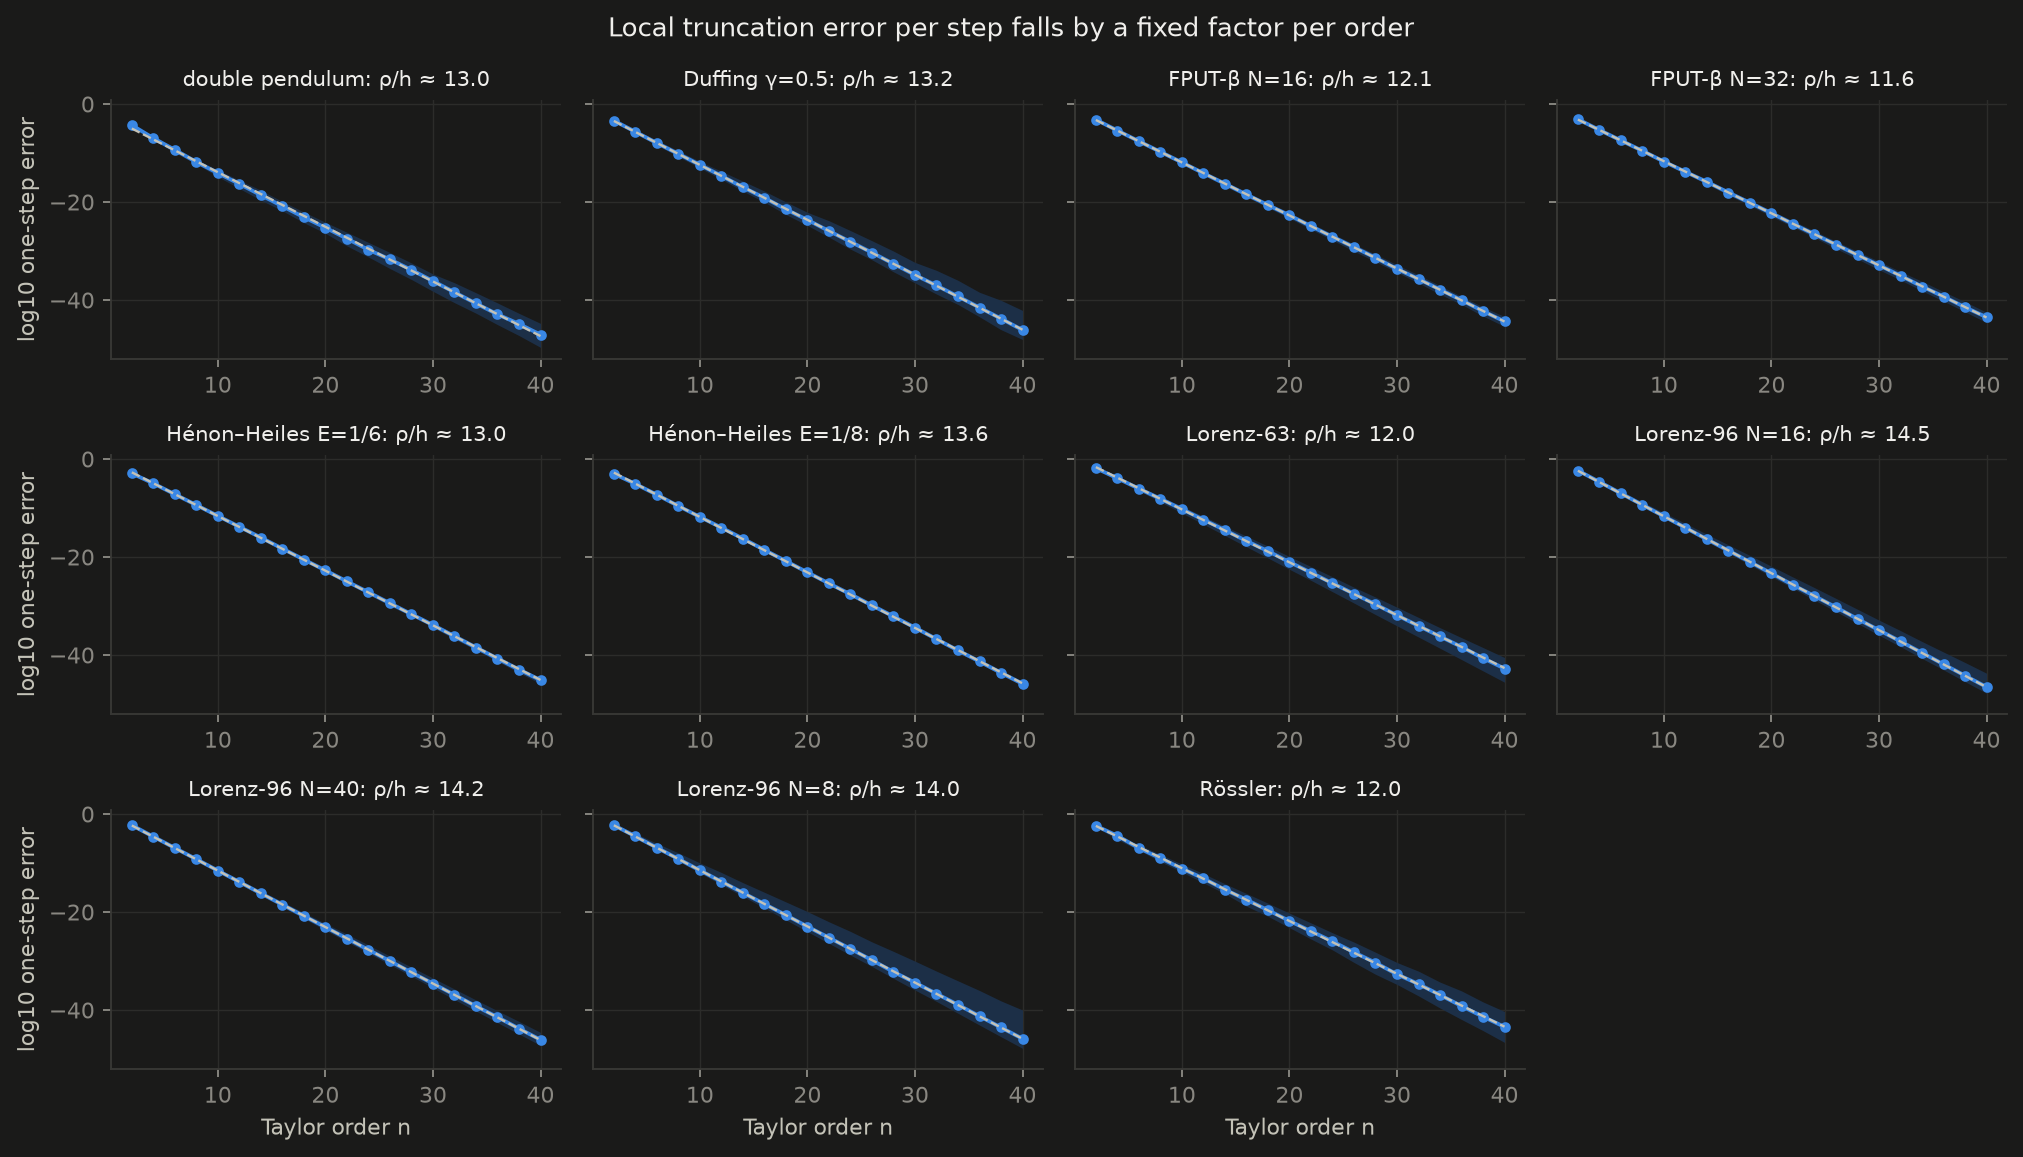
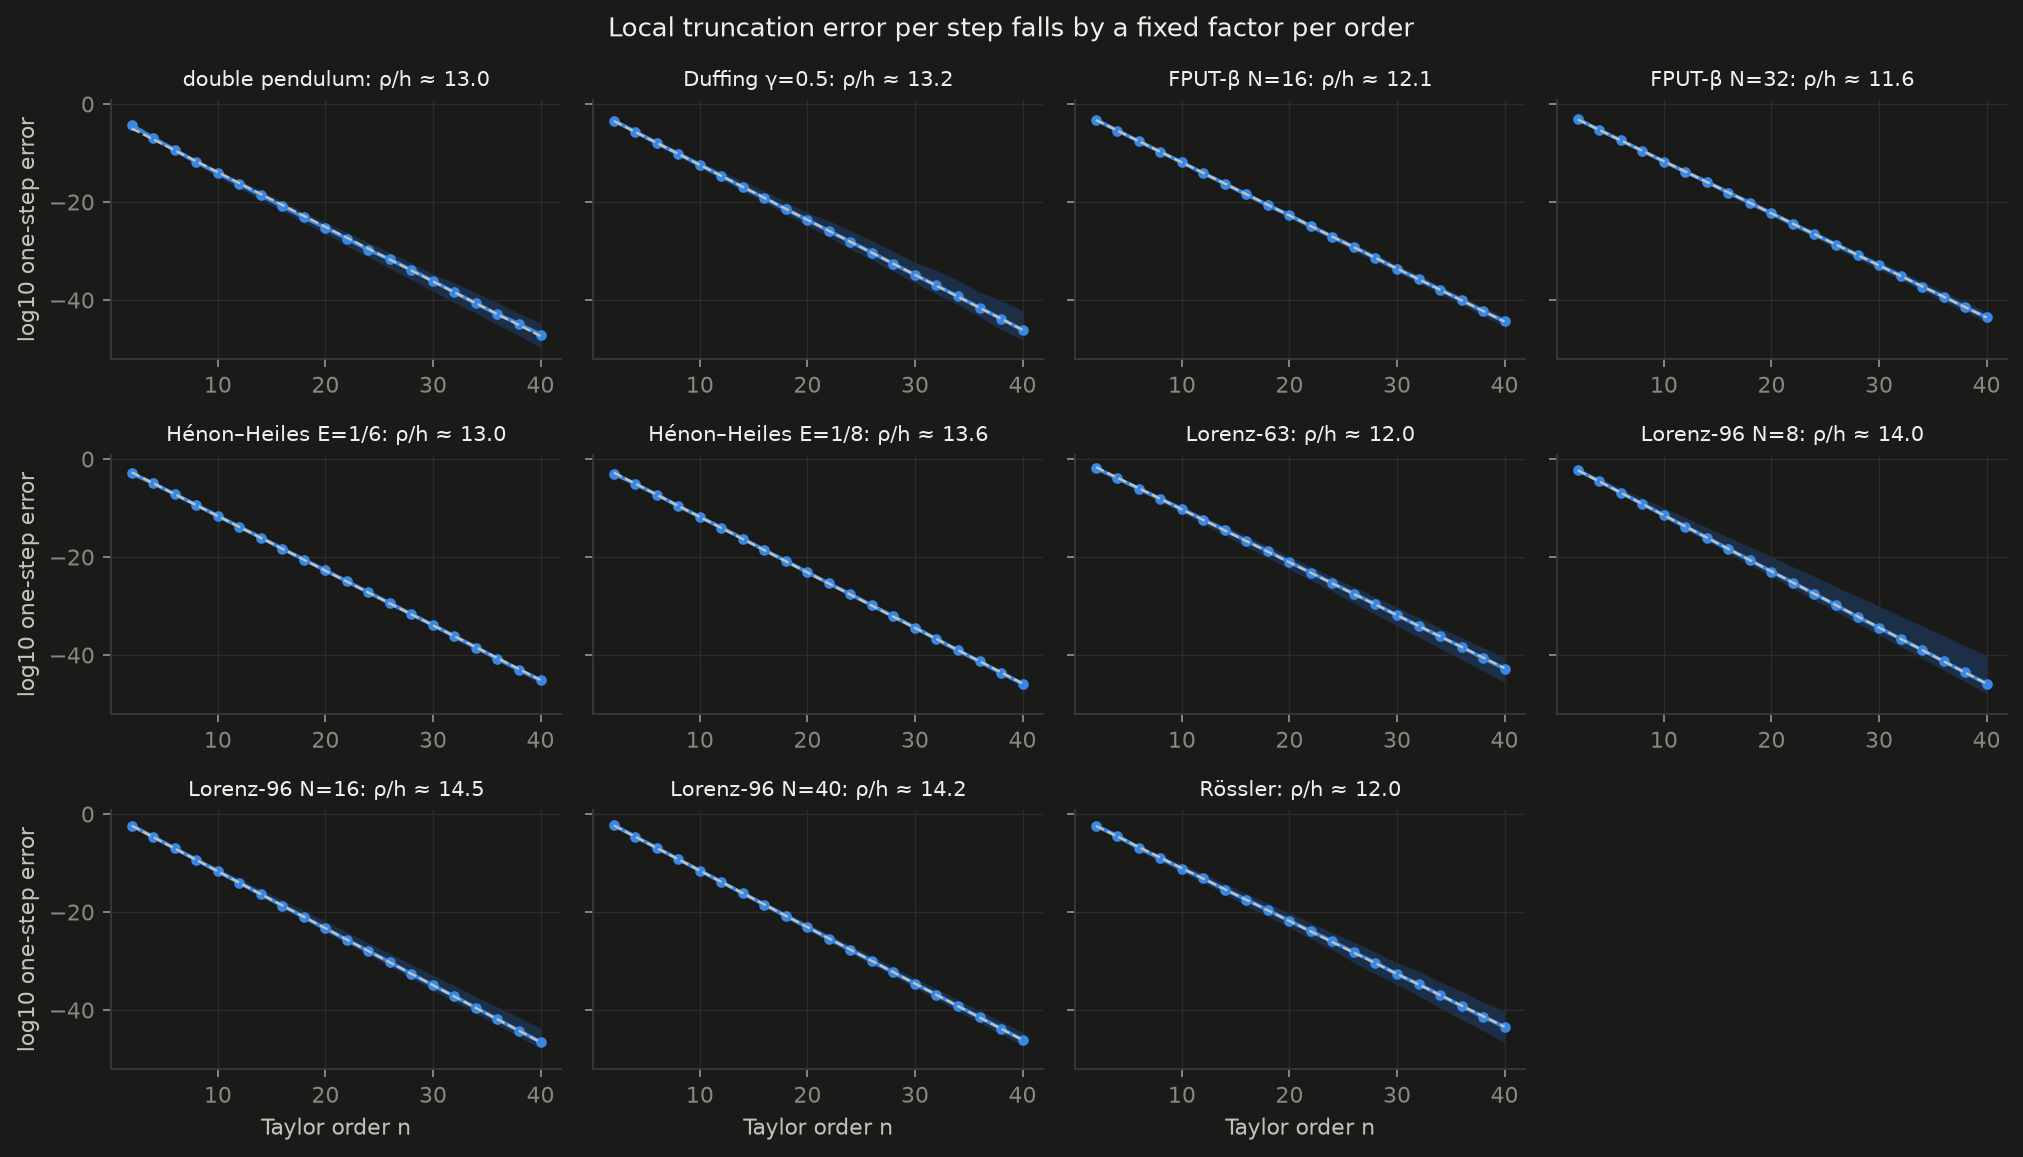
Fix import in fig_e01_e04

diff --git a/figures/fig_e01_e04.py b/figures/fig_e01_e04.py
@@ -1,5 +1,6 @@
-from style import re
-import BITS_LABEL, MARKERS, both, np, plt, read, save, short_case
+import re
+
+from style import BITS_LABEL, MARKERS, both, np, plt, read, save, short_case
 
 
 @both
